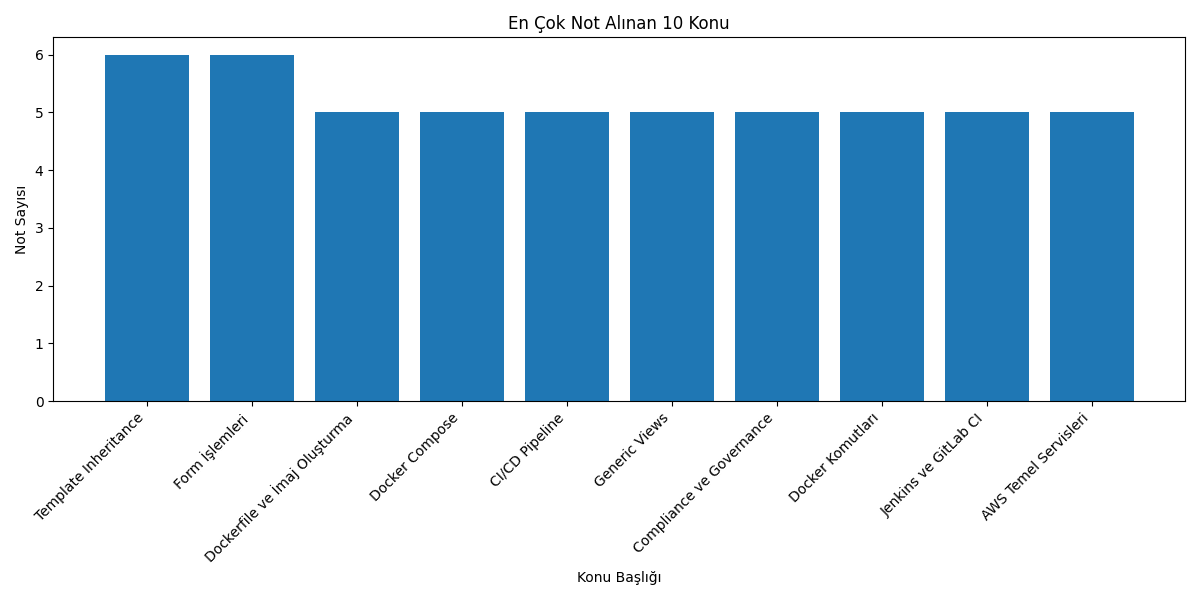
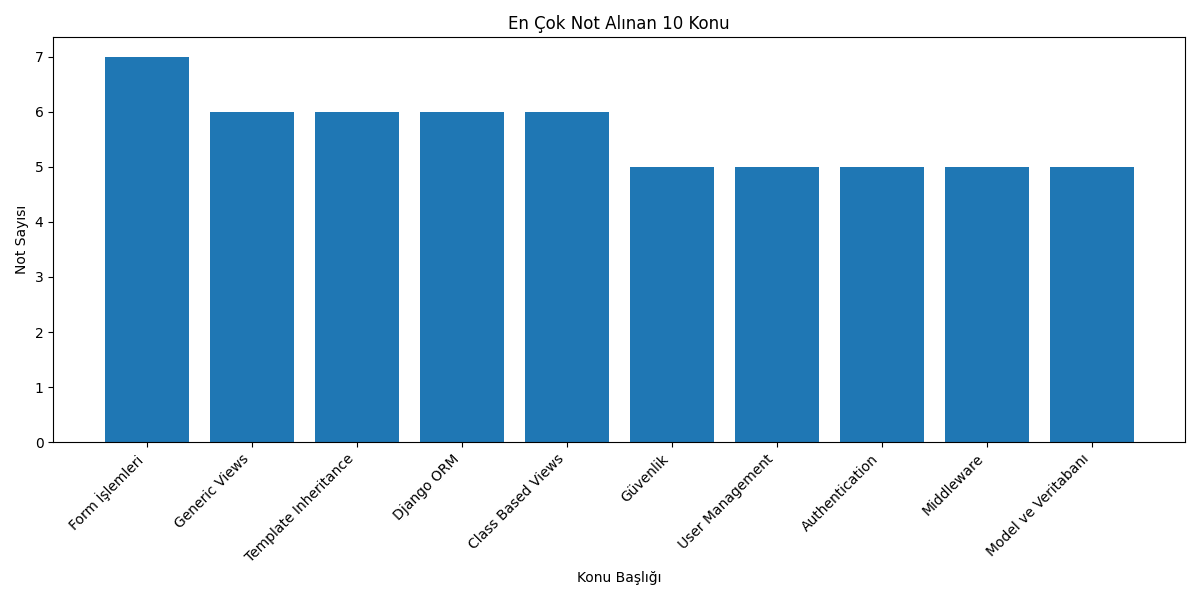
ai notes' subjects fixed

diff --git a/lmsApp/analysis/note_analysis.py b/lmsApp/analysis/note_analysis.py
@@ -31,6 +31,17 @@ def analyze_notes(lesson_id=None):
     Eğer lesson_id verilmişse, sadece o dersin notlarını analiz eder.
     Verilmemişse, tüm derslerin notlarını analiz eder.
     """
+    # Önce PopularNoteTitle tablosunu temizle
+    if lesson_id:
+        # Sadece belirli dersin verilerini temizle
+        lesson = Lesson.objects.get(id=lesson_id)
+        PopularNoteTitle.objects.filter(lesson_name=lesson.name).delete()
+        print(f"{lesson.name} için PopularNoteTitle tablosu temizlendi.")
+    else:
+        # Tüm verileri temizle
+        PopularNoteTitle.objects.all().delete()
+        print("PopularNoteTitle tablosu tamamen temizlendi.")
+
     if lesson_id:
         # Sadece belirli bir dersin notlarını analiz et
         lesson = Lesson.objects.get(id=lesson_id)
@@ -44,13 +55,23 @@ def analyze_notes(lesson_id=None):
         # O isme sahip tüm derslerin notlarını çek
         with connection.cursor() as cursor:
             cursor.execute("""
-                SELECT l.name as lesson_name, n.title as note_title, COUNT(*) as note_count
-                FROM "lmsApp_note" n
-                JOIN "lmsApp_lesson" l ON n.lesson_id = l.id
-                JOIN "auth_user" u ON n.user_id = u.id
-                WHERE u.is_active = true
-                AND l.name = %s
-                GROUP BY l.name, n.title
+                WITH note_counts AS (
+                    SELECT 
+                        l.name as lesson_name,
+                        n.title as note_title,
+                        COUNT(DISTINCT n.id) as note_count
+                    FROM "lmsApp_note" n
+                    JOIN "lmsApp_lesson" l ON n.lesson_id = l.id
+                    JOIN "auth_user" u ON n.user_id = u.id
+                    WHERE u.is_active = true
+                    AND l.name = %s
+                    GROUP BY l.name, n.title
+                )
+                SELECT 
+                    lesson_name,
+                    note_title,
+                    note_count
+                FROM note_counts
                 ORDER BY note_count DESC
             """, [lesson_name])
             results = cursor.fetchall()
@@ -61,15 +82,17 @@ def analyze_notes(lesson_id=None):
 
         # Pandas DataFrame'e dönüştür
         df = pd.DataFrame(results, columns=['lesson_name', 'note_title', 'note_count'])
-        df_top = df.nlargest(10, 'note_count')
+        print(f"\n{lesson_name} için not sayıları:")
+        print(df[['note_title', 'note_count']].to_string(index=False))
 
         # PopularNoteTitle tablosuna kaydet
-        for _, row in df_top.iterrows():
-            PopularNoteTitle.objects.update_or_create(
+        for _, row in df.iterrows():
+            popular_title, created = PopularNoteTitle.objects.update_or_create(
                 lesson_name=lesson_name,
                 title=row['note_title'],
                 defaults={'count': row['note_count']}
             )
+            print(f"PopularNoteTitle güncellendi: {popular_title.title}, count: {popular_title.count}")
         print(f"{lesson_name} için popüler başlıklar kaydedildi.")
 
     # Spark oturumu oluştur

diff --git a/lmsApp/views.py b/lmsApp/views.py
@@ -519,9 +519,8 @@ def ai_generate_note(request):
                     })
 
             # Not oluşturma işlemi
-            title = f"{lesson.name} - Hafta {week_number}"
-            if description:
-                title += f" ({description[:30]}{'...' if len(description) > 30 else ''})"
+            # Başlık sadece konu başlığı olsun
+            title = description[:50]  # Açıklamayı başlık olarak kullan, maksimum 50 karakter
             
             week = Week.objects.filter(lesson_id=lesson_id, week_number=week_number).first()
             if not week:
@@ -563,10 +562,17 @@ def ai_generate_note(request):
                     user=request.user
                 )
                 
+                # Not ekledikten sonra öneri fonksiyonunu tekrar çağır
+                suggestions = get_top_notes(5, request.user.id, lesson_id)
+                
+                # Not ekledikten sonra PopularNoteTitle tablosunu güncelle
+                analyze_notes(lesson_id=lesson_id)
+                
                 return JsonResponse({
                     'success': True,
                     'title': title,
-                    'note_id': note.id
+                    'note_id': note.id,
+                    'suggestions': suggestions
                 })
                 
             except Exception as e:
